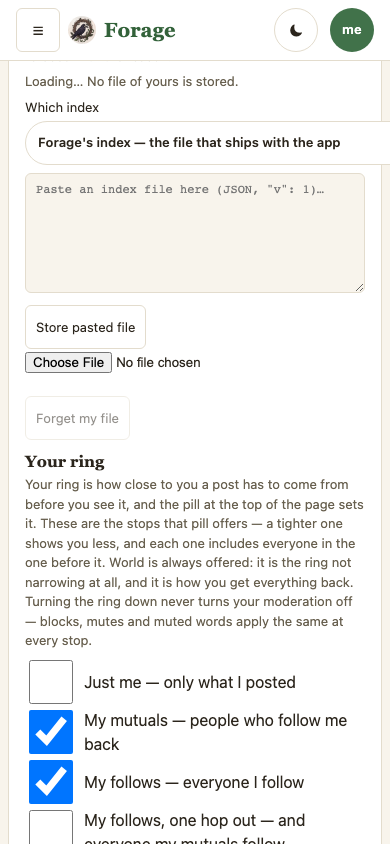
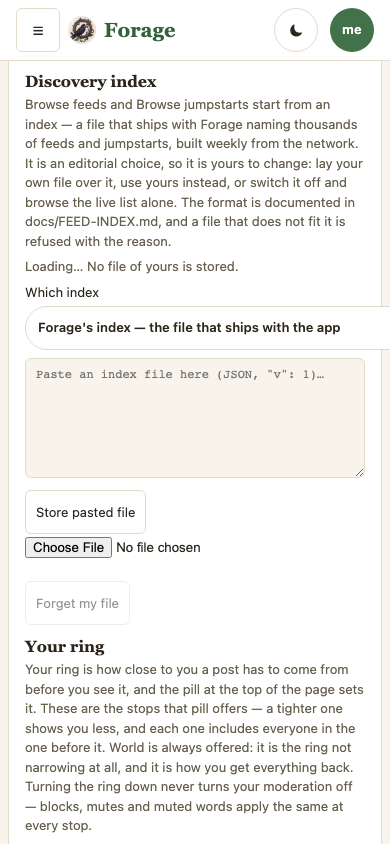
own-index-pds: mock v1 — Current cdc1da1 beside Proposed cb3897f, four states, two widths
Claude-Session: https://claude.ai/code/session_01AgNFS92Q6EC7db7A8iR58W

diff --git a/plans/mocks/own-index-pds.html b/plans/mocks/own-index-pds.html
@@ -6,7 +6,7 @@
 <title>Forage Own Index Kept</title>
 <meta name="mock-version" content="1">
 <meta name="mock-baseline" content="forage@cdc1da1">
-<meta name="mock-proposal" content="forage@d83d992">
+<meta name="mock-proposal" content="forage@cb3897f">
 <style>
 :root{--page-bg:#EFE9DE;--page-card:#F8F4EC;--page-ink:#2B251C;--page-muted:#6B6252;--page-line:#DED5C4;--page-accent:#33623A;
   --f-body:system-ui,-apple-system,"Segoe UI",Roboto,sans-serif;--f-display:ui-serif,Georgia,"Times New Roman",serif}
@@ -49,7 +49,7 @@ code{font-size:.92em}
   <span class="eyebrow">Mock · v1 · 2026-09-21 · plan 2026-09-21-plan-own-index-on-the-pds</span>
   <h1>Your discovery index, kept on your atmo provider account — the Discovery index section in its four states</h1>
   <p class="sub">One surface, sixteen frames. <b>Current</b> is <code>main</code> at <code>cdc1da1</code> (the section as it ships: a file on this browser, a mode dial, paste or choose a file);
-  <b>Proposed</b> is <code>claude/own-index-pds-build</code> at <code>d83d992</code>. Both captured by <code>scripts/mock-snaps.mjs</code> against the same fixtures, in the default skin,
+  <b>Proposed</b> is <code>claude/own-index-pds-build</code> at <code>cb3897f</code>. Both captured by <code>scripts/mock-snaps.mjs</code> against the same fixtures, in the default skin,
   at 390×844 and 1280×900 (MOCKS.md), on <code>/me</code> with Advanced open and the section scrolled to. The population is built to stress the status line: a name long enough to wrap
   with an emoji, a link long enough to break, the shipped index's counts in words, and a fetch that fails with the words a real PDS answers. The reader's repo slot, the blob it names and
   the link host are live in the page (the journey's shim), so every Proposed frame is the result of a real read of the record — not a drawing.</p>
